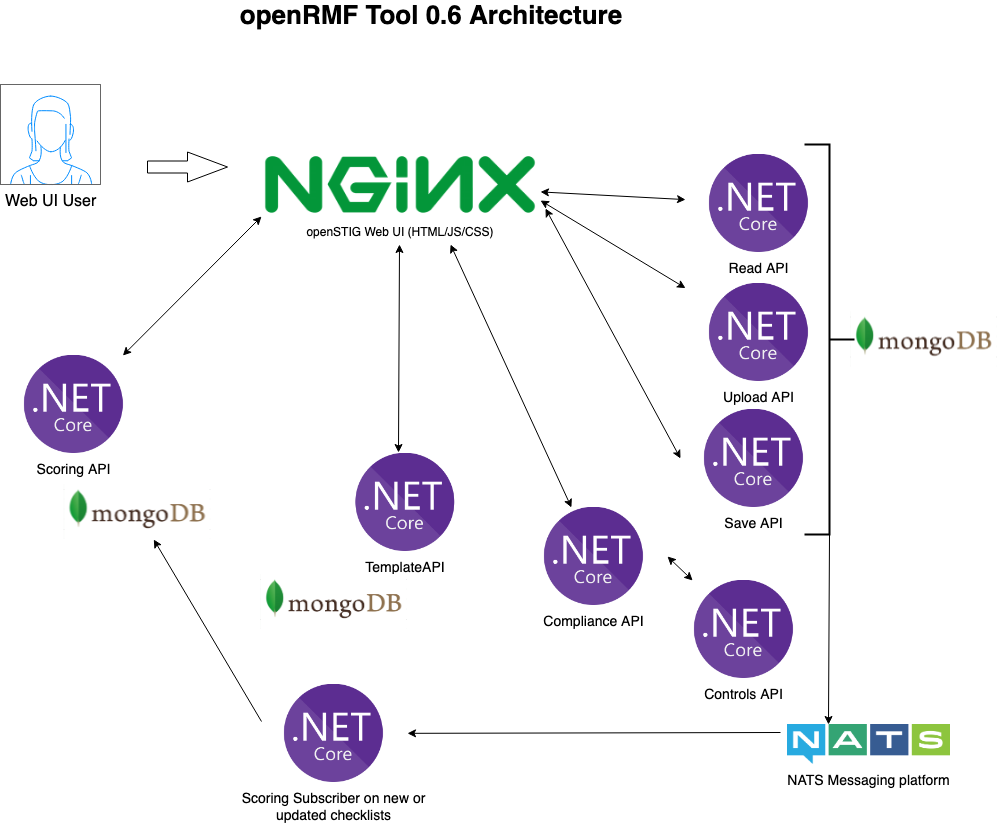
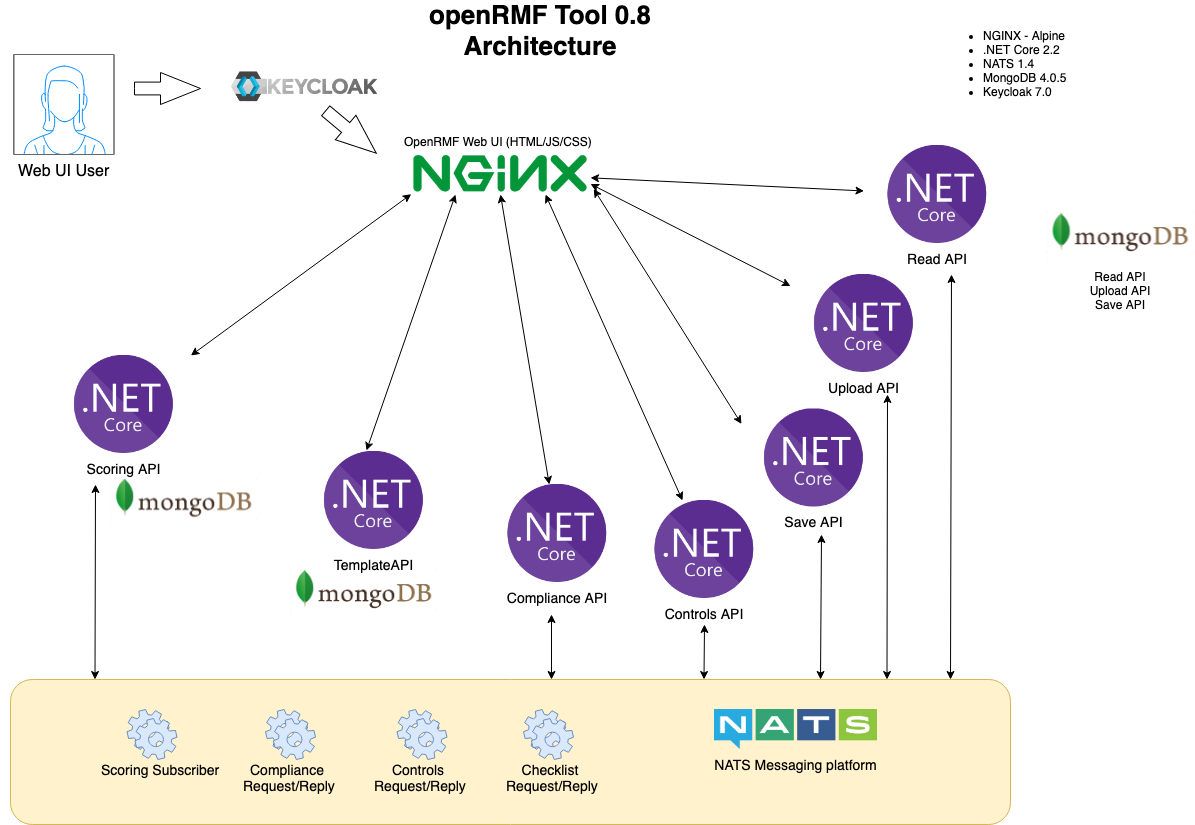
updating architecture

diff --git a/README.md b/README.md
@@ -1,7 +1,7 @@
-# openRMF Documentation (v 0.7) (formerly openSTIG)
+# openRMF Documentation (v 0.8) (formerly openSTIG)
 
-## Introduction
-openRMF is an open source tool for managing, viewing, and reporting of your DoD STIG checklists in one web-based interface using your browser. It also generates a compliance listing of all your checklists across a whole system based on NIST 800-53 for your Risk Management Framework (RMF) documentation and process. This tool helps you manage multiple systems going through the RMF process and allows you to structure your data in a clean interface all in one location for your group or program. It can save you weeks of manually checking vulnerability-to-CCI-to-NIST controls and generating reports manually, so you can get on to the value-added work for your cybersecurity hygiene.
+## Introduction to OpenRMF
+OpenRMF is an open source tool for managing, viewing, and reporting of your DoD STIG checklists in one web-based interface using your browser. It also generates a compliance listing of all your checklists across a whole system based on NIST 800-53 for your Risk Management Framework (RMF) documentation and process. This tool helps you manage multiple systems going through the RMF process and allows you to structure your data in a clean interface all in one location for your group or program. It can save you weeks of manually checking vulnerability-to-CCI-to-NIST controls and generating reports manually, so you can get on to the value-added work for your cybersecurity hygiene.
 
 Read more about its genesis <a href="https://www.cingulara.com/opensource.html" target="_blank">here</a>.
 
@@ -41,7 +41,7 @@ If we are missing something you want, please add it on our main <a href="https:/
 
 ## Description
 
-The openRMF tool is a better alternative than the [DISA STIGViewer.jar](https://iase.disa.mil/stigs/Pages/stig-viewing-guidance.aspx) that is used for DoD STIG checklist files, RMF process information, and the like. It is necessary to capture and report on this information, please do not mistake what I say for not agreeing with securing services. However, the DISA Java tool itself is horribly designed and not conducive to today's environment and use. Their Java tool has been like this for a loooooonnnnnngggg time and I have wanted to make something better (IMO) for almost as long. So this tool here is the start! It is a way (currently) to view, report on, dive into, manage, and export your STIG checklists no matter which checklist you are referring to. All the .CKL files have a common format and htis reads and displays/manages that in a web front end using .NET Core APIs, MongoDB and NATS messaging. [View the history](https://www.cingulara.com/opensource.html) of this tool on our website. 
+The openRMF tool is an advanced alternative than the [DISA STIGViewer.jar](https://iase.disa.mil/stigs/Pages/stig-viewing-guidance.aspx) that is used for DoD STIG checklist files, RMF process information, and the like. It is necessary to capture and report on this information, please do not mistake what I say for not agreeing with securing services. However, the DISA Java tool itself is horribly designed and not conducive to today's environment and use. Their Java tool has been like this for a loooooonnnnnngggg time and I have wanted to make something better (IMO) for almost as long. So this tool here is the start! It is a way (currently) to view, report on, dive into, manage, and export your STIG checklists no matter which checklist you are referring to. All the .CKL files have a common format and htis reads and displays/manages that in a web front end using .NET Core APIs, MongoDB and NATS messaging. [View the history](https://www.cingulara.com/opensource.html) of this tool on our website. 
 
 This is the repo for all the docs as the openRMF project goes along.  Documentation on the openRMF application will be here in MD files and reference images and other documents as well as GH markdown. This application idea has been brewing in my head for well over a decade and specifically since July 4th weekend 2018 when I started to put down code. Then in January 2019 when I scrapped all that July stuff and went for web APIs, microservices, eventual consistency, CQRS (command query responsibility segregation to scale separately), using MongoDB and NATS.
 

diff --git a/architecture/README.md b/architecture/README.md
@@ -22,3 +22,20 @@ of chart data and XLSX downloads.
 * https://github.com/Cingulara/openrmf-msg-compliance is a NATS client for responding to request/reply on a list of all compliance listings mapping STIG vulnerability IDs to controls. Use this for a full listing based on a low/moderate/high level as well as if you are using personally identifiable information (PII) or similar data.
 
 I started this project with separate microservices all over including messaging for API-to-API communication. Future enhancements are to organically add publish / subscribe pieces such as compliance, auditing, logging, etc. to make this more user and enterprise ready. Along with all the error trapping, checking for NATS connection, etc. that a production 1.0 application would have. 
+
+## Current Messaging Architecture
+
+OpenRMF uses NATS messaging to work eventual consistency as well as API-to-API communication. The items below talk on the types of messaging, who initiates the communication, the receiving NATS client, and a description of what it does.
+
+| Subject | Msg Type | Calling API |     Receiving Client  | Description |
+|---------|----------|-------------|-----------------------|-------------|
+| openrmf.checklist.read | Request/Reply |             | openrmf-msg-checklist | Ask for a full checklist/artifact record based on the ID passed in |
+| openrmf.system.checklists.read | Request/Reply |             | openrmf-msg-checklist | Ask for all checklist records for a given system title passed in |
+|  |  |             |  |      |
+|  |  |             |  |      |
+|  |  |             |  |      |
+|  |  |             |  |      |
+|  |  |             |  |      |
+|  |  |             |  |      |
+|  |  |             |  |      |
+|  |  |             |  |      |
